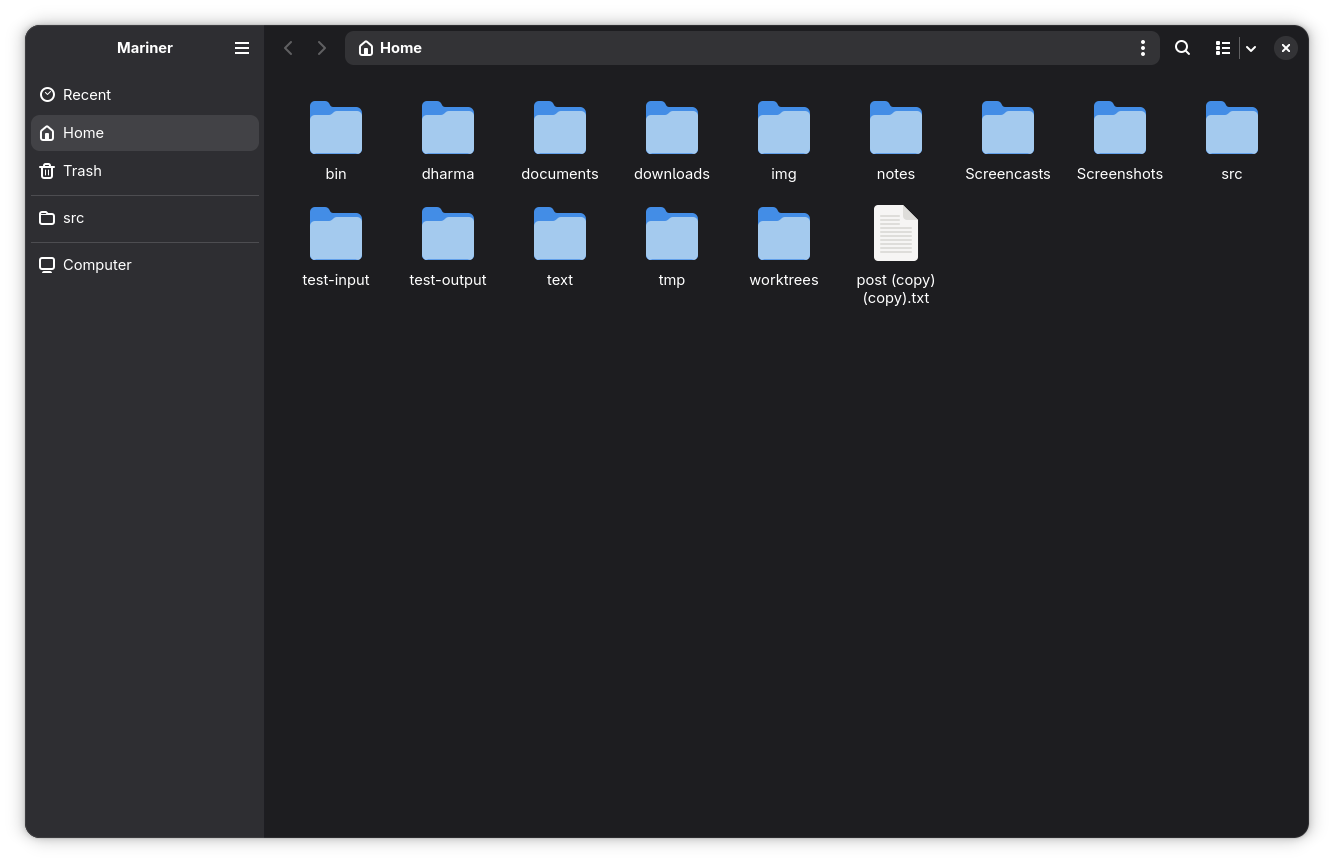
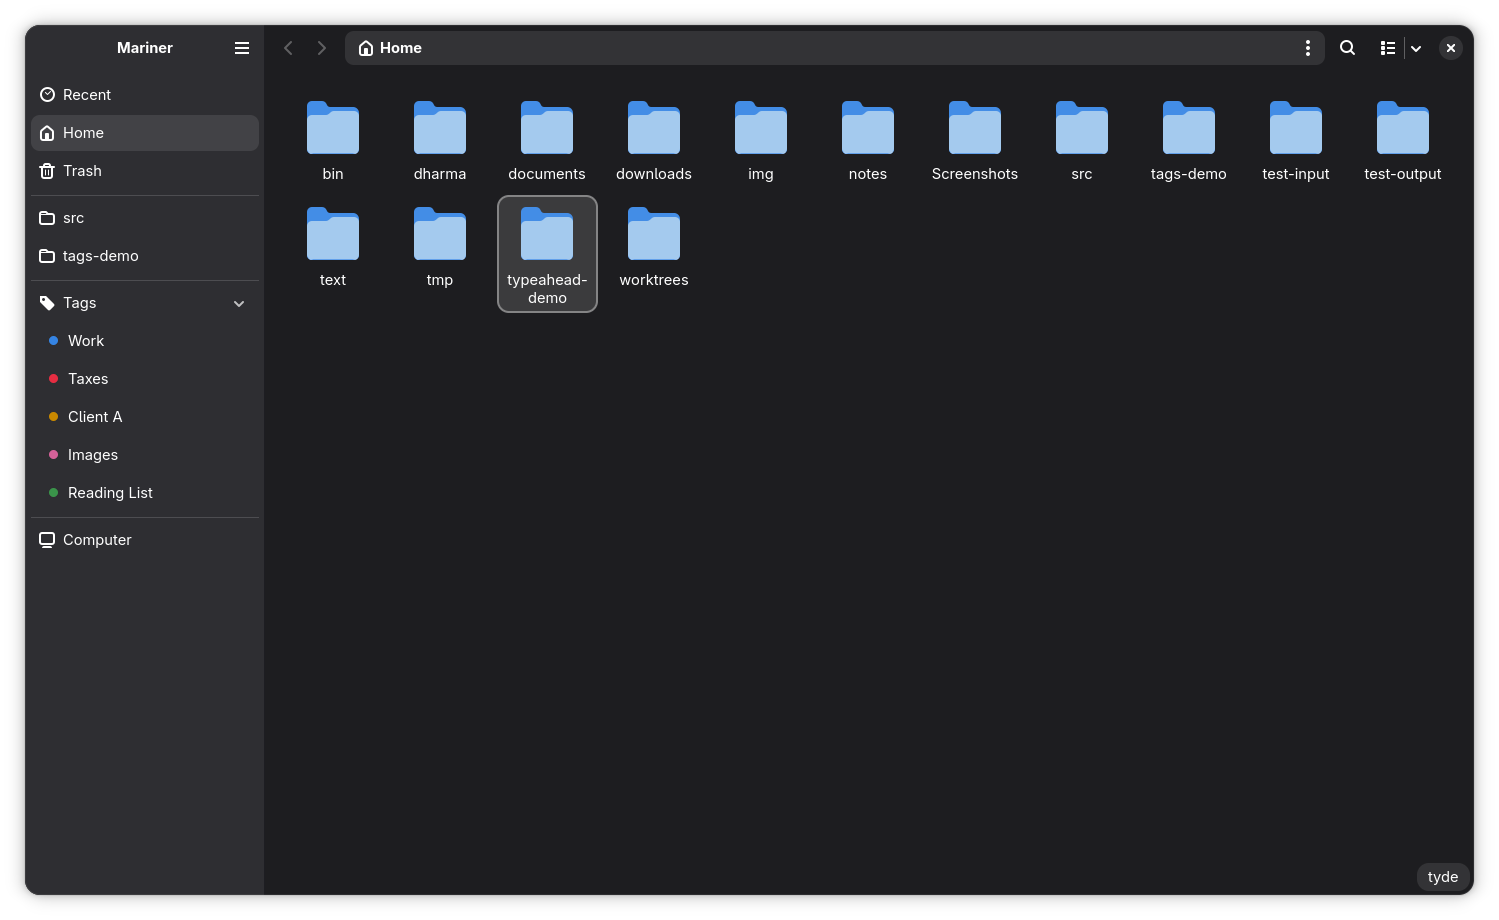
build: npm install from github

diff --git a/src/cli/desktop-entry.ts b/src/cli/desktop-entry.ts
@@ -1,0 +1,77 @@
+/* Per-user desktop integration for installs that don't come from a system
+ * package manager (npm/pnpm global installs, source checkouts): copies the
+ * .desktop entry and icons from data/ into XDG_DATA_HOME so Mariner appears
+ * in the application menu. `--uninstall-desktop-entry` reverts it. Pure Node —
+ * runs and exits before any GApplication setup (see main.ts). */
+import { copyFileSync, existsSync, mkdirSync, readFileSync, rmSync, writeFileSync } from 'node:fs'
+import { spawnSync } from 'node:child_process'
+import { homedir } from 'node:os'
+import { dirname, join } from 'node:path'
+import { fileURLToPath } from 'node:url'
+
+const APP_ID = 'com.github.romgrk.mariner'
+
+const DATA_DIR = fileURLToPath(new URL('../../data', import.meta.url))
+/* Launcher shipped by the npm package; absent under system installs, which
+ * provide /usr/bin/mariner instead (see packaging/aur/PKGBUILD). */
+const LAUNCHER = fileURLToPath(new URL('../../bin/mariner.js', import.meta.url))
+
+const ICON_DIRS = ['icons', 'hicolor', 'scalable', 'apps']
+const SYMBOLIC_DIRS = ['icons', 'hicolor', 'symbolic', 'apps']
+
+const dataHome = process.env.XDG_DATA_HOME || join(homedir(), '.local', 'share')
+
+const targets = {
+  desktop: join(dataHome, 'applications', `${APP_ID}.desktop`),
+  icon: join(dataHome, ...ICON_DIRS, `${APP_ID}.svg`),
+  symbolic: join(dataHome, ...SYMBOLIC_DIRS, `${APP_ID}-symbolic.svg`),
+}
+
+/* Desktop Entry spec quoting: quote arguments containing reserved characters,
+ * escaping the ones that stay special inside double quotes. */
+function quoteExecArg(arg: string): string {
+  if (!/[ \t"'\\><~|&;$*?#()`]/.test(arg)) return arg
+  return '"' + arg.replace(/[\\"`$]/g, c => '\\' + c) + '"'
+}
+
+/* Absolute node + launcher paths: .desktop entries launch with a minimal
+ * session PATH that rarely includes nvm/pnpm/npm-prefix bin dirs. */
+function execLine(): string {
+  if (existsSync(LAUNCHER))
+    return `${quoteExecArg(process.execPath)} ${quoteExecArg(LAUNCHER)} %U`
+  return 'mariner %U' // system install: launcher on PATH at /usr/bin/mariner
+}
+
+/* Refreshes the MimeType=inode/directory association; absent tool is fine —
+ * desktops rescan ~/.local/share/applications on their own. */
+function updateDesktopDatabase(): void {
+  spawnSync('update-desktop-database', [join(dataHome, 'applications')], { stdio: 'ignore' })
+}
+
+export function install(): number {
+  const entry = readFileSync(join(DATA_DIR, `${APP_ID}.desktop`), 'utf8')
+    .replace(/^Exec=.*$/m, `Exec=${execLine()}`)
+  mkdirSync(dirname(targets.desktop), { recursive: true })
+  writeFileSync(targets.desktop, entry)
+
+  for (const [target, source] of [
+    [targets.icon, join(DATA_DIR, ...ICON_DIRS, `${APP_ID}.svg`)],
+    [targets.symbolic, join(DATA_DIR, ...SYMBOLIC_DIRS, `${APP_ID}-symbolic.svg`)],
+  ]) {
+    mkdirSync(dirname(target), { recursive: true })
+    copyFileSync(source, target)
+  }
+
+  updateDesktopDatabase()
+  console.log(`Installed:\n  ${Object.values(targets).join('\n  ')}`)
+  console.log('\nTo also make Mariner the default file manager, see')
+  console.log('https://github.com/romgrk/mariner/blob/master/docs/default-file-manager.md')
+  return 0
+}
+
+export function uninstall(): number {
+  for (const path of Object.values(targets)) rmSync(path, { force: true })
+  updateDesktopDatabase()
+  console.log(`Removed:\n  ${Object.values(targets).join('\n  ')}`)
+  return 0
+}

diff --git a/src/main.ts b/src/main.ts
@@ -10,6 +10,14 @@ import { loadStyles } from './ui/style.ts'
 import { ACCELS } from './accels.ts'
 import type { GFile } from './core/types.ts'
 
+/* Desktop-integration commands run and exit before the GApplication is created,
+ * so they never activate a running instance. */
+const command = process.argv[2]
+if (command === '--install-desktop-entry' || command === '--uninstall-desktop-entry') {
+  const entry = await import('./cli/desktop-entry.ts')
+  process.exit(command === '--install-desktop-entry' ? entry.install() : entry.uninstall())
+}
+
 /* Command-line modes. Plain arguments open folders (so Mariner is the handler
  * for inode/directory). `--select <uri…>` reveals items in their parent folder
  * and `--properties <uri…>` additionally opens the Properties dialog — these

diff --git a/bin/mariner.js b/bin/mariner.js
@@ -5,7 +5,9 @@
  * both the node-gtk register hook and main.ts to absolute paths, so it works
  * from any CWD once installed globally (`pnpm install -g .`). We re-exec node
  * rather than importing main.ts directly because --import must register the
- * `gi:` module hook before main.ts's top-level GTK imports are evaluated. */
+ * `gi:` module hook before main.ts's top-level GTK imports are evaluated.
+ * strip-types.mjs additionally lets the .ts sources run from under
+ * node_modules, where Node's built-in type stripping refuses to. */
 import { spawn } from 'node:child_process'
 import { fileURLToPath } from 'node:url'
 import { dirname, join } from 'node:path'
@@ -13,10 +15,11 @@ import { dirname, join } from 'node:path'
 const here = dirname(fileURLToPath(import.meta.url))
 const main = join(here, '..', 'src', 'main.ts')
 const register = import.meta.resolve('node-gtk/register') // file:// URL, CWD-independent
+const stripTypes = new URL('./strip-types.mjs', import.meta.url).href
 
 const child = spawn(
   process.execPath,
-  ['--import', register, main, ...process.argv.slice(2)],
+  ['--import', stripTypes, '--import', register, main, ...process.argv.slice(2)],
   { stdio: 'inherit' },
 )
 